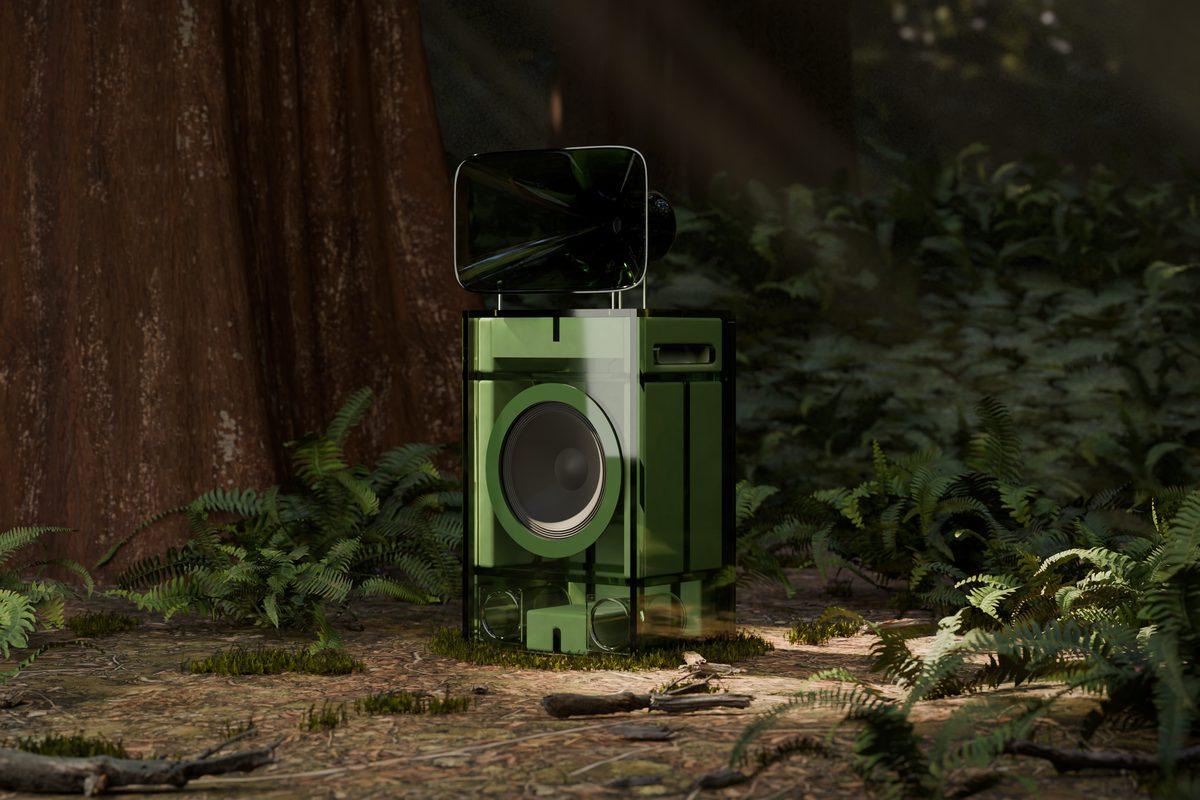
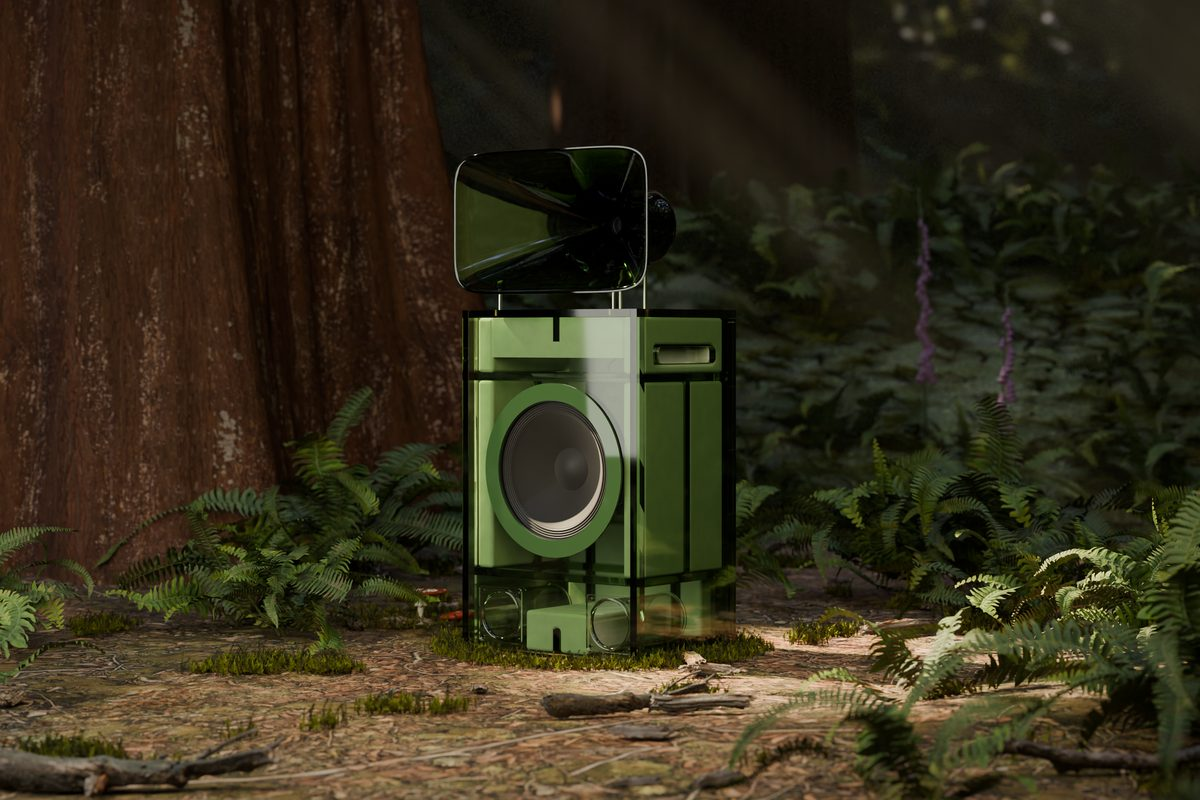
barkhorn site: Poison's habitat is A3 on the new drivers, landscape and phone (r31-element-poison-a3 73a0216: beat A in full-size blind duels, +0.45 and +0.1); its place line names the foxgloves and fly agarics; the log gains A3 and Ember's mended joins
Claude-Session: https://claude.ai/code/session_016Hs9fK3h2VwVeRXpa18b1z

diff --git a/spinoffs/barkhorn/site/index.html b/spinoffs/barkhorn/site/index.html
@@ -579,7 +579,7 @@ html.cursor, html.cursor * { cursor: none !important }
 </div></footer>
 
 <script>
[2 lines of base64/hex data omitted]
 const SLUG = Object.fromEntries(D.clouds.map(c => [c.name.toLowerCase(), c.k])), keyOf = w => SLUG[w] || (BY[w] ? w : null);
 const reduce = matchMedia('(prefers-reduced-motion: reduce)').matches, TAU = Math.PI * 2;
 // lit from below: scrolling picks the colour (a quarter of a screen each) and time plays the change; the coins are a

diff --git a/spinoffs/barkhorn/web.py b/spinoffs/barkhorn/web.py
@@ -59,11 +59,12 @@ ELEMENT = dict(HABITAT)       # which concept each colour shows in its element: 
 ELEMENT['violet'] = 'haze_b'  # the layered hills beat the lavender field in a blind duel, 2 to 1 (6.2 to 5.9)
 ELEMENT['amber'] = 'acid_b'   # acid rain on black lava beat the acid spring at Dallol in a blind duel, 2 to 1 (6.3 to 5.4)
 ELEMENT['ice'] = 'fog_b'      # the headland above the fog at dawn beat the summit above a sea of cloud in a blind duel, 3 to 0 (6.7 to 4.7)
+ELEMENT['green'] = 'poison_a3'  # A's redwood floor with its poisons beat A in full-size blind duels, 3 judges to 1 (+0.45, +0.1)
 PLACES = {  # where each concept stands: the speaker page leads with it ("Ember on a lava field at blue hour.")
     'ember': 'on a lava field at blue hour, the crust cracked to its glow',
     'dust': 'on rippled sand in the Southwest at golden hour',
     'acid': 'by the acid springs of Dallol', 'acid_b': 'in acid rain on black lava',
-    'poison': 'on a redwood forest floor, among ferns',
+    'poison': 'on a redwood forest floor, among ferns', 'poison_a3': 'on a redwood forest floor, among ferns, foxgloves and fly agarics',
     'ice': 'in snow country at blue hour', 'ice_b': 'on a black-sand beach among icebergs at sunrise',
     'haze': 'in a lavender field at dusk', 'haze_b': 'before layered hills in a hazy evening light',
     'fog': 'on a summit above a sea of cloud', 'fog_b': 'on a headland above the fog at dawn',

diff --git a/critic/LOG.md b/critic/LOG.md
@@ -651,11 +651,13 @@ its finals from the best rig, and put them to a blind duel against the runner-up
 | Set | Concept | Blind scores, pass by pass | Final, blind | Duel | What held it back |
 |---|---|---|---|---|---|
 | Ember | A: a lava field at blue hour (a cavern at passes 4 to 7) | 4.5, 5.0, 4.5, 4.5, 4.5, 4.5, 4.5, 5.0, 5.0 | 5.5 | p9 over p8, 5.5 to 5.0 | the lava's glow reads as lamps; the crust one scale; the speaker lit only from behind; on the final, the cabinet's front dark (median 26), the far ridge a cut-out, no lava near enough to light the base |
+| Ember | A, the strip joins mended (the drivers' landscape final, four strips butt-joined: the denoiser's edges showed as lines at the ridge and across the cabinet) | (no passes) | | | a band rendered across each join on the same rig and samples, aligned by least squares, blended over 56 rows with 8-row fades and finished once; grain correlation at the joins back to their neighbours' (4193846; the phone frame's halves joined the same way, 8f6bedc) |
 | Dust | A: the Southwest at golden hour | 5.5, 6.0, 6.0, 5.5, 5.5, 5.5, 6.0, 6.0, 5.5 | 6.0 | p7 over p8, 6.6 to 6.0 | the body opaque in a side light; mesas as cut-outs; one ripple pattern in the sand |
 | Dust | B: buttes, cacti and a blue sky (the owner: "the plateaus in the back don't look like what you'd find on route 66") | 5.0, 5.0, 4.5; the focused fix 5.0 | 5.5 (the final, on the drivers made real) | lost to A, 5.5 to 6.5; with the order swapped, against the site's A, 5.0 and 5.5 to 6.5 and 6.5 | the buttes procedural extrusions (a matte painting in the duel), the plants clutter and the yucca cut, a blue-grey sky over red ground; B ahead only on the product. Every pass named the same three gaps, which need assets the repo lacks: real Monument Valley geometry or a backplate, scanned desert plants, a varied real ground |
 | Acid | A: the acid spring at Dallol | 4.5, 5.0, 4.5, 5.0, 5.0, 4.5 | 5.5 | p5 over p4, 6.0 to 5.5; lost to B, 1 to 2 (5.4 to 6.3) | the crust as crinkled foil; no hard shadow (the tint lets shadow rays through); a pale sky; in the duel, the amber cabinet lost on same-coloured crust |
 | Poison | A: a redwood rainforest | 5.5, 5.5, 4.5, 5.0, 5.5, 5.0, 6.0, 5.8, 5.5 | 6.5 | p7, 6.5 | the horn crushed against the ferns; the trunk flat; toy-like agarics |
 | Poison | A2: made poisonous (the owner: "Poison isn't reading as poisonous"): A's set, light and camera, with fly agarics and foxgloves further back; the sun disc 0.6 to 2 degrees to soften the horn's shadow on the woofer ring | 5.5, 6.0 | 6.2 and 6.0 (landscape), 6.0 (phone) | lost to A on every judge, landscape 6.2 to 6.8 and 6.0 to 6.5, phone 6.0 to 6.5 twice (A2 0.55 and 0.5 behind: A stays) | the agarics toy-like CG, the reddest thing in the frame; the foxgloves strings of pink beads; the 2-degree sun blurred A's light shafts; its one win the fuller ferns at the trunk; a hard shadow band across the woofer bay caps both. A3 (sun back to 0.6, fewer duller agarics, real foxglove bells) proofing |
+| Poison | A3: A's floor with its poisons, quietly (the owner's ask again): A's sun kept at 0.6 degrees, the woofer bay filled with A's bounce, three small dull agarics in shade at the fern stand's foot, two foxgloves with real bells in the haze | 6.1 (the proof duel, against A's 6.35) | 6.4 and 6.6 (landscape), 7.0 and 6.2 (phone) | over A on both frames, three judges of four (landscape 6.5 to 6.05, phone 6.6 to 6.5): up | the brighter cabinet won it; the agarics too saturated by the cabinet's foot (toy-like to two judges); one judge saw the foxgloves as wobbly CG stalks; at the site's sizes (1200, 600 and 640 px) the poisons are a few pixels, so the frame is better but still doesn't read as poisonous at a glance |
 | Ice | A: snow country at blue hour | 5.5, 6.0, 6.5, 6.5, 6.0, 5.5, 7.0, 6.5, 7.0 | 7.0 | over B, 2 to 1 (6.5 to 5.8) | the base sunk in the drift; a dark patch beside it (fixed); a flat blue grade |
 | Ice | B: Diamond Beach at sunrise | 5.5, 5.5, 5.5, 5.0, 5.5, 5.5, 5.5 | 5.8 | beach over cave, 6.0 to 4.5 | backlit to dark navy; the throat crushed with green fringes; the wet sand a mirror |
 | Haze | A: a lavender field at dusk | 5.5, 6.0, 6.0, 6.0, 5.5, 5.5, 6.0, 5.5 | 6.0 | sunset over afterglow, 6.0 to 5.0; lost to B, 1 to 2 (5.9 to 6.2) | the throat dark; the ground crushed at dusk; the lavender one height; in the duel, the horn blown to pale pink by the sun behind it |
